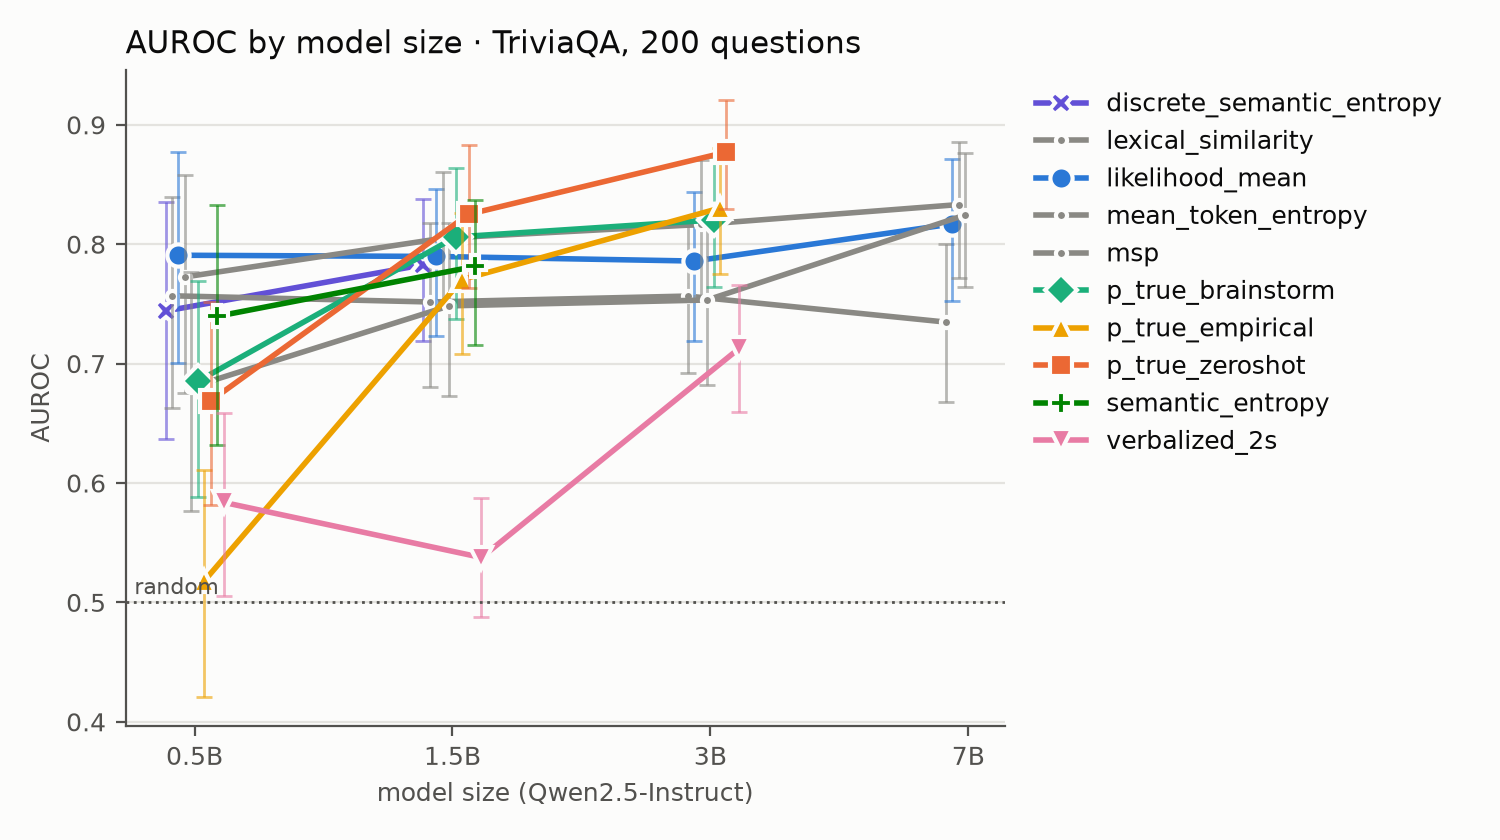
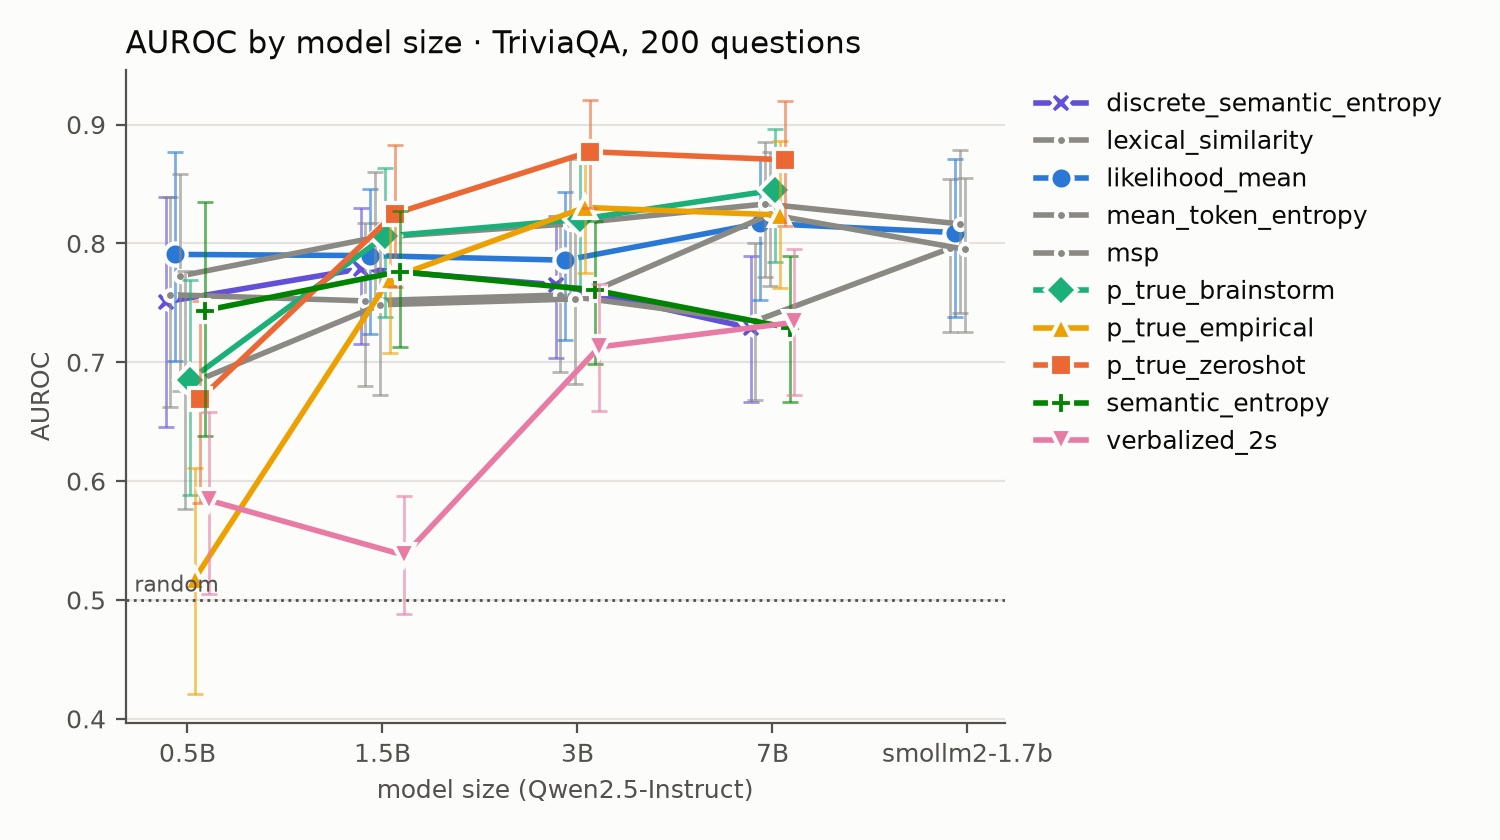
README: week-3 results (SE/DSE with deberta-large on all four sizes, 7B self-eval) and cost table with 7B and NLI time
Results table, comparison_triviaqa_200.md and the plots rebuilt from the A5 result files with
scripts.compare_models / scripts.plot_results. Cost table: 7B column, SE/DSE row now the shared
NLI matrix time (nli_seconds_per_question, deberta-large on MPS); note on the 7B lexical_similarity
timing. Takeaways and notes updated (all methods have run on all sizes).

Claude-Session: https://claude.ai/code/session_01Ush24WmYwXh5HWgGSR8L2X

diff --git a/experiments/llm-probly/README.md b/experiments/llm-probly/README.md
@@ -62,30 +62,32 @@ AUROC (higher is better, 0.5 = random; best per model in bold):
 
 | method | family | 0.5B | 1.5B | 3B | 7B |
 |---|---|---|---|---|---|
-| p_true_zeroshot | self-eval | 0.669 | **0.825** | **0.877** | – |
-| p_true_brainstorm | self-eval | 0.685 | 0.806 | 0.820 | – |
-| p_true_empirical | self-eval | 0.518 | 0.770 | 0.830 | – |
-| verbalized_2s | self-eval | 0.584 | 0.538 | 0.713 | – |
-| semantic_entropy | agreement | 0.740 | 0.781 | – | – |
-| discrete_semantic_entropy | agreement | 0.744 | 0.783 | – | – |
+| p_true_zeroshot | self-eval | 0.669 | **0.825** | **0.877** | **0.870** |
+| p_true_brainstorm | self-eval | 0.685 | 0.806 | 0.820 | 0.845 |
+| p_true_empirical | self-eval | 0.518 | 0.770 | 0.830 | 0.824 |
+| verbalized_2s | self-eval | 0.584 | 0.538 | 0.713 | 0.734 |
+| semantic_entropy | agreement | 0.744 | 0.776 | 0.761 | 0.729 |
+| discrete_semantic_entropy | agreement | 0.751 | 0.779 | 0.765 | 0.729 |
 | lexical_similarity | agreement | 0.757 | 0.752 | 0.757 | 0.735 |
 | likelihood_mean | baseline | **0.791** | 0.790 | 0.786 | 0.817 |
-| mean_token_entropy | baseline | 0.773 | 0.805 | 0.817 | **0.833** |
+| mean_token_entropy | baseline | 0.773 | 0.805 | 0.817 | 0.833 |
 | msp | baseline | 0.680 | 0.748 | 0.753 | 0.824 |
+
+SE and discrete SE use `microsoft/deberta-large-mnli` (A4) since week 3; with week 2's deberta-base they were
+0.740 / 0.781 (SE) and 0.746 / 0.783 (DSE) on 0.5B / 1.5B, so the change is within noise (intervals about ±0.06).
 
 ![AUROC vs model size](results/plots/triviaqa_200_auroc_vs_size.png)
 
 **Takeaways**
-1. Self-evaluation needs model size. Zero-shot p(True) goes 0.67 → 0.83 → 0.88 (0.5B → 1.5B → 3B) and is the best method from 1.5B on; at 0.5B every p(True) variant is worse than the cheap baselines.
-2. Verbalized confidence stays weak (0.58, 0.54, 0.71); the 1.5B model answers "95" for most questions.
-3. Semantic entropy and its discrete version are almost identical (0.74 / 0.78) and below zero-shot p(True) at 1.5B, although they need 10 samples and an NLI model per question.
+1. Self-evaluation needs model size. Zero-shot p(True) goes 0.67 → 0.83 → 0.88 → 0.87 (0.5B → 7B) and is the best method from 1.5B on; at 0.5B every p(True) variant is worse than the cheap baselines.
+2. Verbalized confidence stays weak (0.58, 0.54, 0.71, 0.73); the 1.5B model answers "95" for most questions.
+3. Semantic entropy and its discrete version are almost identical (0.73–0.78) and do not grow with size (0.76 at 3B, 0.73 at 7B): a likely reason is that bigger models repeat their answers more often, so the samples also agree when the answer is wrong. They stay below zero-shot p(True) from 1.5B on, although they need 10 samples and an NLI model per question.
 4. The cheap baselines need no extra model calls and get better with size; at 7B mean token entropy and MSP reach 0.82–0.83.
 
 **Notes**
 - Perplexity is not listed separately: it is exp(−likelihood_mean), so it ranks the answers exactly like `likelihood_mean` (same AUROC, AURC, PRR).
 - 7B ran in float16 (memory), the others in float32.
-- Not run yet (–): p(True) and verbalized on 7B, SE on 3B and 7B.
-- SE files were saved by hand and moved into `triviaqa_200/`; next week they will go through the runner.
+- All methods have run on all four sizes through the runner; SE / DSE read the persistent NLI cache (A5).
 - Rejection curves for 1.5B: [`results/plots/triviaqa_200_qwen1.5b_rejection.png`](results/plots/triviaqa_200_qwen1.5b_rejection.png).
 
 ## Models & cost (BIG)
@@ -99,16 +101,22 @@ All runs: TriviaQA, 200 questions, on one MacBook Air (Apple M-series, 24 GB uni
 | Qwen2.5-3B | float32 | MPS | ~16 GB | 5.1 | 0.485 |
 | Qwen2.5-7B | **float16** | MPS | ~17–21 GB | 9.2 | 0.590 |
 
-Extra cost of each method, seconds per question on top of generation (`seconds_per_question` in the result files; 0.5B and 1.5B on CPU, 3B on MPS, so compare within a column):
+Extra cost of each method, seconds per question on top of generation (`seconds_per_question` in the result files;
+the LLM calls ran on CPU for 0.5B and 1.5B and on MPS for 3B and 7B, so compare within a column):
 
-| method | 0.5B | 1.5B | 3B |
-|---|---|---|---|
-| cache-only (msp, likelihood_mean, mean_token_entropy, lexical_similarity) | ~0 | ~0 | ~0 |
-| p_true_zeroshot | 0.11 | 0.31 | 0.24 |
-| p_true_brainstorm | 0.29 | 0.51 | 0.47 |
-| verbalized_2s | 0.19 | 0.56 | 0.77 |
-| p_true_empirical (10 generations) | 0.85 | 2.25 | 3.16 |
-| semantic_entropy (+ NLI) | 1.61 | 0.73 | – |
+| method | 0.5B | 1.5B | 3B | 7B |
+|---|---|---|---|---|
+| cache-only (msp, likelihood_mean, mean_token_entropy, lexical_similarity) | ~0 | ~0 | ~0 | ~0 * |
+| p_true_zeroshot | 0.11 | 0.31 | 0.24 | 0.34 |
+| p_true_brainstorm | 0.29 | 0.50 | 0.47 | 0.68 |
+| verbalized_2s | 0.19 | 0.56 | 0.77 | 0.91 |
+| p_true_empirical (10 generations) | 0.85 | 2.25 | 3.16 | 5.93 |
+| semantic_entropy + discrete SE (NLI, deberta-large on MPS, one shared matrix) | 0.67 | 0.25 | 0.13 | 0.06 |
+
+The NLI time (`nli_seconds_per_question`) is paid once for SE, DSE and the graph measures together, and a
+second run reads the NLI cache and pays 0 (A5). It falls with model size because bigger models give more
+identical answers, which are scored only once (A2). \* The 7B `lexical_similarity.json` records 7.75 s from its
+first run; ROUGE-L on 10 short answers takes well under a second, so this is not the method's cost.
 
 **Mac limits**
 - 3B in float32 fits: memory pressure stays green while generating, with a short yellow peak while the weights load.

diff --git a/experiments/llm-probly/results/comparison_triviaqa_200.md b/experiments/llm-probly/results/comparison_triviaqa_200.md
@@ -8,64 +8,65 @@
 | qwen1.5b | 200 | 0.375 | float32 |
 | qwen3b | 200 | 0.485 | float32 |
 | qwen7b | 200 | 0.590 | float16 |
+| smollm2-1.7b | 200 | 0.360 | float32 |
 
 
 ## AUROC (higher is better, 0.5 = random)
 
-| method | qwen0.5b | qwen1.5b | qwen3b | qwen7b |
-|---|---|---|---|---|
-| discrete_semantic_entropy | 0.744 | 0.783 |  |  |
-| dummy_random | 0.567 |  |  |  |
-| lexical_similarity | 0.757 | 0.752 | 0.757 | 0.735 |
-| likelihood_mean | 0.791 | 0.790 | 0.786 | 0.817 |
-| mean_token_entropy | 0.773 | 0.805 | 0.817 | 0.833 |
-| msp | 0.680 | 0.748 | 0.753 | 0.824 |
-| p_true_brainstorm | 0.685 | 0.806 | 0.820 |  |
-| p_true_empirical | 0.518 | 0.770 | 0.830 |  |
-| p_true_zeroshot | 0.669 | 0.825 | 0.877 |  |
-| semantic_entropy | 0.740 | 0.781 |  |  |
-| verbalized_2s | 0.584 | 0.538 | 0.713 |  |
+| method | qwen0.5b | qwen1.5b | qwen3b | qwen7b | smollm2-1.7b |
+|---|---|---|---|---|---|
+| discrete_semantic_entropy | 0.751 | 0.779 | 0.765 | 0.729 |  |
+| dummy_random | 0.567 | 0.521 | 0.500 | 0.560 | 0.525 |
+| lexical_similarity | 0.757 | 0.752 | 0.757 | 0.735 | 0.796 |
+| likelihood_mean | 0.791 | 0.790 | 0.786 | 0.817 | 0.809 |
+| mean_token_entropy | 0.773 | 0.805 | 0.817 | 0.833 | 0.816 |
+| msp | 0.680 | 0.748 | 0.753 | 0.824 | 0.795 |
+| p_true_brainstorm | 0.685 | 0.806 | 0.820 | 0.845 |  |
+| p_true_empirical | 0.518 | 0.770 | 0.830 | 0.824 |  |
+| p_true_zeroshot | 0.669 | 0.825 | 0.877 | 0.870 |  |
+| semantic_entropy | 0.744 | 0.776 | 0.761 | 0.729 |  |
+| verbalized_2s | 0.584 | 0.538 | 0.713 | 0.734 |  |
 
 
 ## PRR (higher is better, 1 = perfect, 0 = random)
 
-| method | qwen0.5b | qwen1.5b | qwen3b | qwen7b |
-|---|---|---|---|---|
-| discrete_semantic_entropy | 0.497 | 0.520 |  |  |
-| dummy_random | 0.160 |  |  |  |
-| lexical_similarity | 0.467 | 0.479 | 0.457 | 0.418 |
-| likelihood_mean | 0.576 | 0.618 | 0.631 | 0.704 |
-| mean_token_entropy | 0.548 | 0.653 | 0.684 | 0.724 |
-| msp | 0.400 | 0.552 | 0.573 | 0.719 |
-| p_true_brainstorm | 0.291 | 0.577 | 0.689 |  |
-| p_true_empirical | -0.000 | 0.472 | 0.650 |  |
-| p_true_zeroshot | 0.275 | 0.650 | 0.793 |  |
-| semantic_entropy | 0.490 | 0.517 |  |  |
-| verbalized_2s | 0.090 | 0.081 | 0.350 |  |
+| method | qwen0.5b | qwen1.5b | qwen3b | qwen7b | smollm2-1.7b |
+|---|---|---|---|---|---|
+| discrete_semantic_entropy | 0.520 | 0.508 | 0.467 | 0.391 |  |
+| dummy_random | 0.160 | 0.131 | 0.093 | 0.168 | 0.098 |
+| lexical_similarity | 0.467 | 0.479 | 0.457 | 0.418 | 0.585 |
+| likelihood_mean | 0.576 | 0.618 | 0.631 | 0.704 | 0.685 |
+| mean_token_entropy | 0.548 | 0.653 | 0.684 | 0.724 | 0.694 |
+| msp | 0.400 | 0.552 | 0.573 | 0.719 | 0.671 |
+| p_true_brainstorm | 0.291 | 0.577 | 0.689 | 0.693 |  |
+| p_true_empirical | -0.000 | 0.472 | 0.650 | 0.633 |  |
+| p_true_zeroshot | 0.275 | 0.650 | 0.793 | 0.767 |  |
+| semantic_entropy | 0.514 | 0.505 | 0.463 | 0.391 |  |
+| verbalized_2s | 0.090 | 0.081 | 0.350 | 0.409 |  |
 
 
 ## AURC (lower is better)
 
-| method | qwen0.5b | qwen1.5b | qwen3b | qwen7b |
-|---|---|---|---|---|
-| discrete_semantic_entropy | 0.683 | 0.448 |  |  |
-| dummy_random | 0.771 |  |  |  |
-| lexical_similarity | 0.692 | 0.460 | 0.363 | 0.275 |
-| likelihood_mean | 0.671 | 0.433 | 0.321 | 0.209 |
-| mean_token_entropy | 0.680 | 0.421 | 0.299 | 0.204 |
-| msp | 0.719 | 0.462 | 0.342 | 0.207 |
-| p_true_brainstorm | 0.730 | 0.427 | 0.299 |  |
-| p_true_empirical | 0.805 | 0.467 | 0.298 |  |
-| p_true_zeroshot | 0.744 | 0.411 | 0.262 |  |
-| semantic_entropy | 0.689 | 0.447 |  |  |
-| verbalized_2s | 0.777 | 0.606 | 0.395 |  |
+| method | qwen0.5b | qwen1.5b | qwen3b | qwen7b | smollm2-1.7b |
+|---|---|---|---|---|---|
+| discrete_semantic_entropy | 0.680 | 0.452 | 0.353 | 0.275 |  |
+| dummy_random | 0.771 | 0.597 | 0.504 | 0.372 | 0.613 |
+| lexical_similarity | 0.692 | 0.460 | 0.363 | 0.275 | 0.445 |
+| likelihood_mean | 0.671 | 0.433 | 0.321 | 0.209 | 0.423 |
+| mean_token_entropy | 0.680 | 0.421 | 0.299 | 0.204 | 0.424 |
+| msp | 0.719 | 0.462 | 0.342 | 0.207 | 0.431 |
+| p_true_brainstorm | 0.730 | 0.427 | 0.299 | 0.196 |  |
+| p_true_empirical | 0.805 | 0.467 | 0.298 | 0.218 |  |
+| p_true_zeroshot | 0.744 | 0.411 | 0.262 | 0.189 |  |
+| semantic_entropy | 0.685 | 0.455 | 0.355 | 0.274 |  |
+| verbalized_2s | 0.777 | 0.606 | 0.395 | 0.279 |  |
 
 
 ## ECE, only probability methods (lower is better)
 
-| method | qwen0.5b | qwen1.5b | qwen3b | qwen7b |
-|---|---|---|---|---|
-| p_true_brainstorm | 0.662 | 0.389 | 0.259 |  |
-| p_true_empirical | 0.651 | 0.314 | 0.181 |  |
-| p_true_zeroshot | 0.690 | 0.335 | 0.176 |  |
-| verbalized_2s | 0.722 | 0.563 | 0.412 |  |
+| method | qwen0.5b | qwen1.5b | qwen3b | qwen7b | smollm2-1.7b |
+|---|---|---|---|---|---|
+| p_true_brainstorm | 0.662 | 0.389 | 0.259 | 0.255 |  |
+| p_true_empirical | 0.651 | 0.314 | 0.181 | 0.171 |  |
+| p_true_zeroshot | 0.690 | 0.335 | 0.176 | 0.220 |  |
+| verbalized_2s | 0.722 | 0.563 | 0.412 | 0.320 |  |
